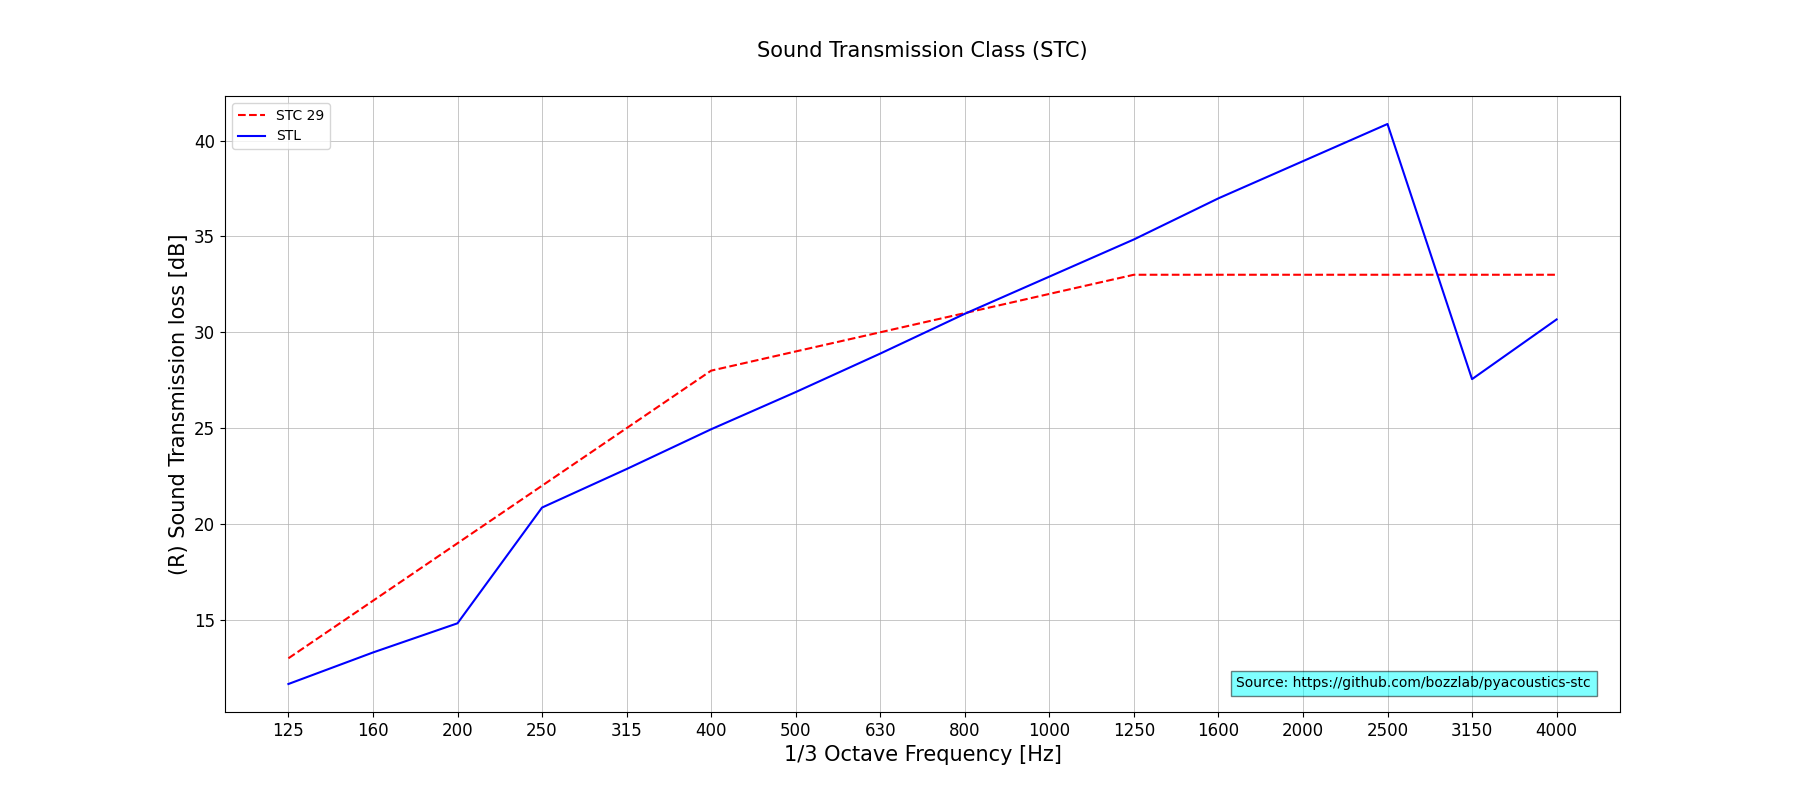
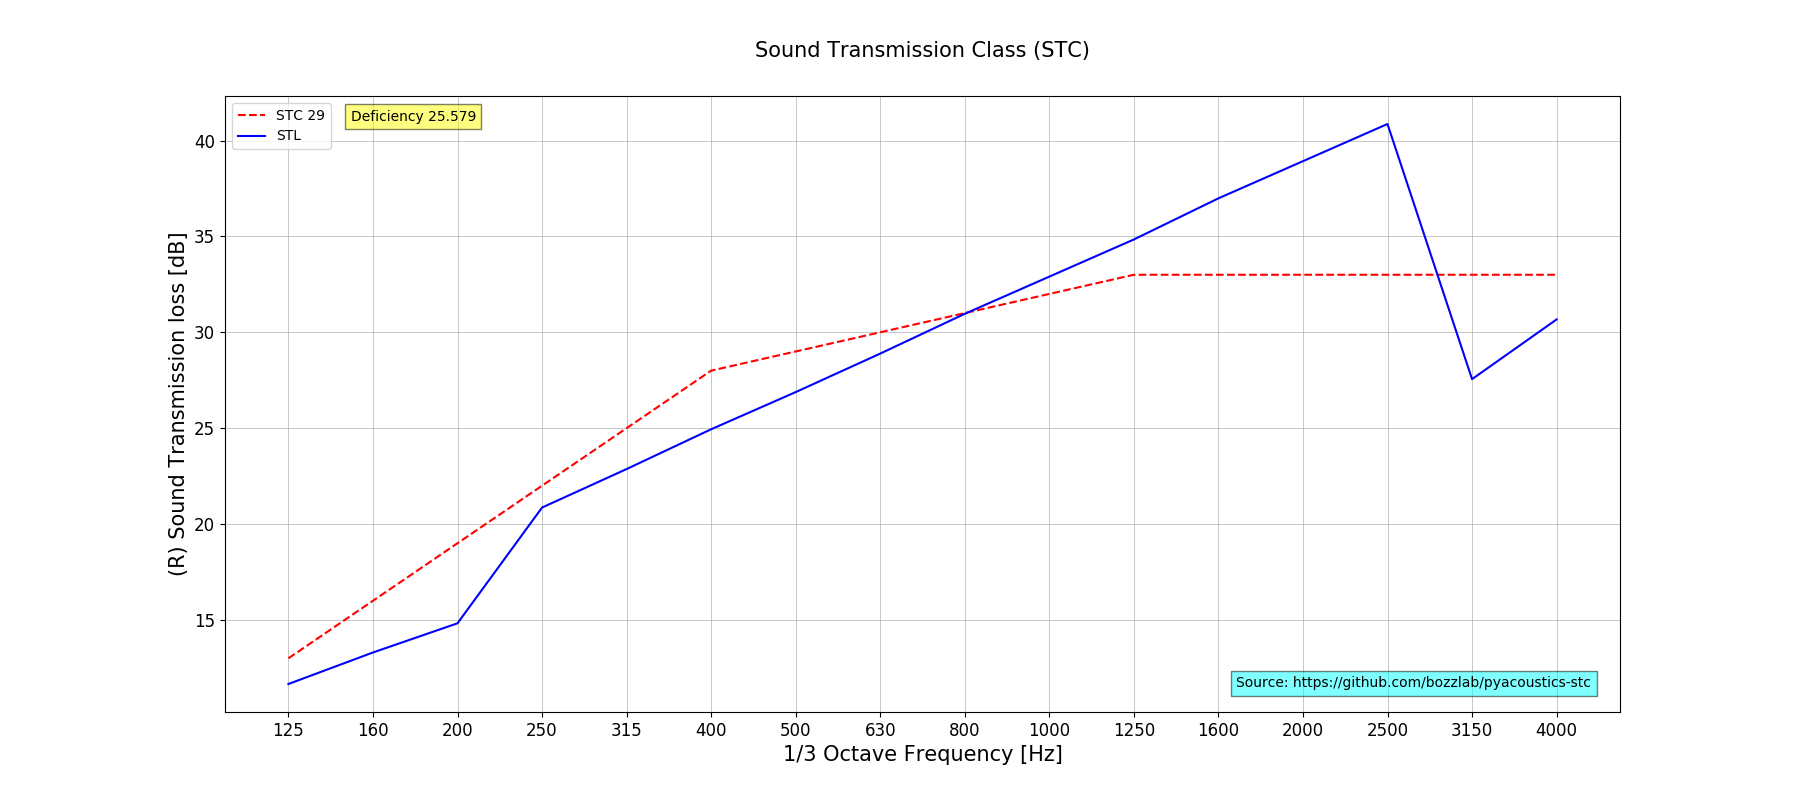
fix deficiency and modified graph

diff --git a/pyacoustics_stc/sound_tranmission_class.py b/pyacoustics_stc/sound_tranmission_class.py
@@ -17,7 +17,7 @@ class SoundTransmissionClass:
 
         self._stc_point: int = None
         self._stc_contour: Dict[int, float] = {}
-        self._defiency: int = None
+        self._deficiency: int = None
         self._delta: Dict[int, float] = {}
         self._stl_stc_delta_contours: Dict[int, float] = {}
 
@@ -48,7 +48,7 @@ class SoundTransmissionClass:
         """
         Sum of delta values between STL and STC.
         """
-        return self._defiency
+        return self._deficiency
 
     @property
     def delta(self) -> Dict[int, float]:
@@ -89,6 +89,13 @@ class SoundTransmissionClass:
             bbox=dict(facecolor="cyan", alpha=0.5),
             xycoords="axes fraction",
         )
+        plt.annotate(
+            f"Deficiency {self._deficiency}",
+            xy=(0.09, 0.960),
+            fontsize=10,
+            bbox=dict(facecolor="yellow", alpha=0.5),
+            xycoords="axes fraction",
+        )
         plt.xticks(x_axis_index, x_axis_frequency, fontsize=12)
         plt.yticks(fontsize=12)
         plt.grid(linestyle="-", linewidth=0.5)
@@ -116,7 +123,7 @@ class SoundTransmissionClass:
             freq: round(value, MAX_DIGIT)
             for freq, value in filtered_delta_contours[self._stc_point].items()
         }
-        self._defiency = round(
+        self._deficiency = round(
             sum(
                 [
                     stc_value
